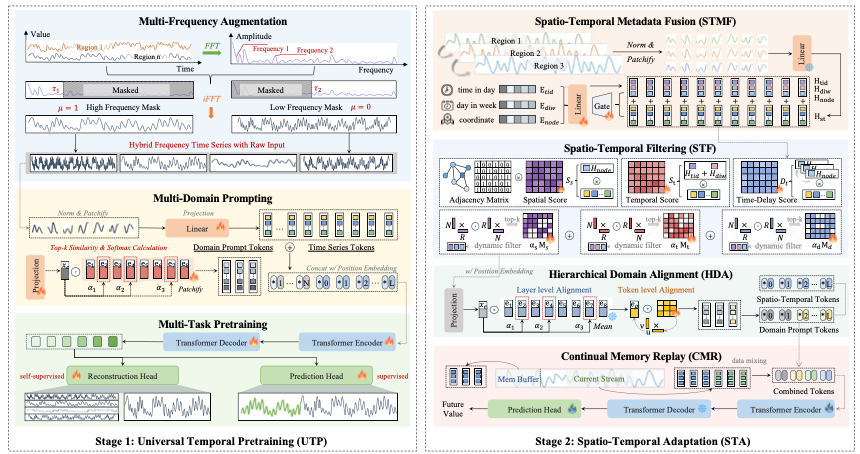
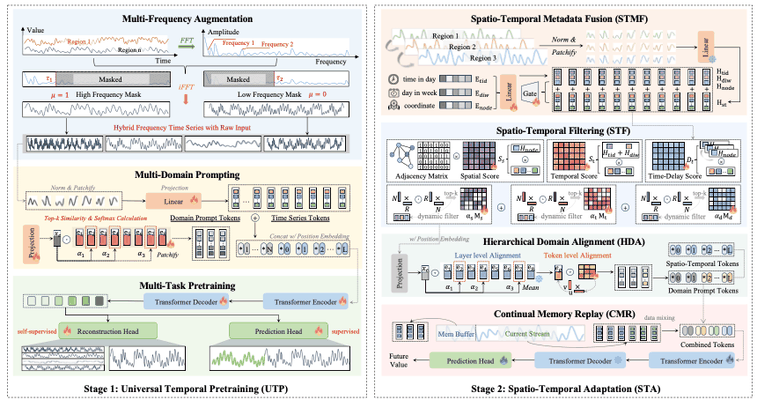
Optimize cover images (86% smaller) and fix LDM4TS http link

diff --git a/_publications/2025/LDM4TS.md b/_publications/2025/LDM4TS.md
@@ -15,5 +15,5 @@ authors:
   - Yuxuan Liang
 links:
   # Code: https://github.com/RWLinno/LDM4TS
-  Paper: http://arxiv.org/abs/2502.14887
+  Paper: https://arxiv.org/abs/2502.14887
 ---
